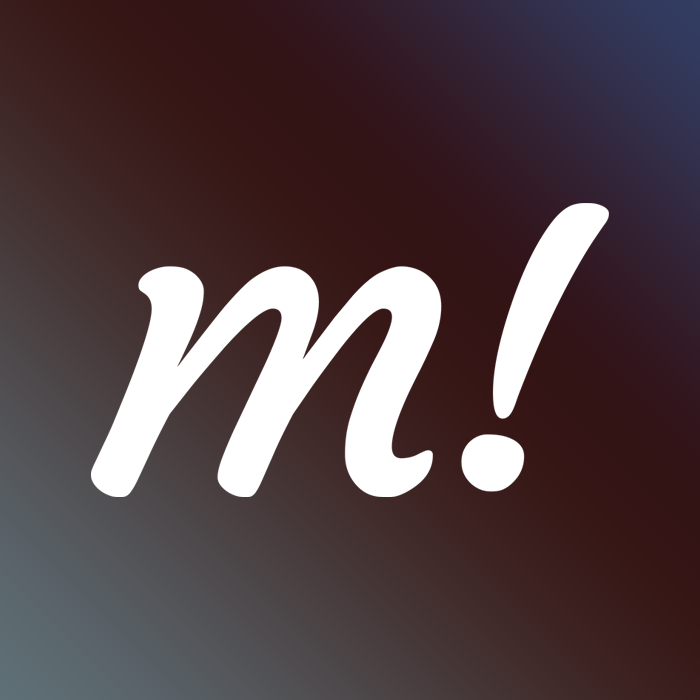
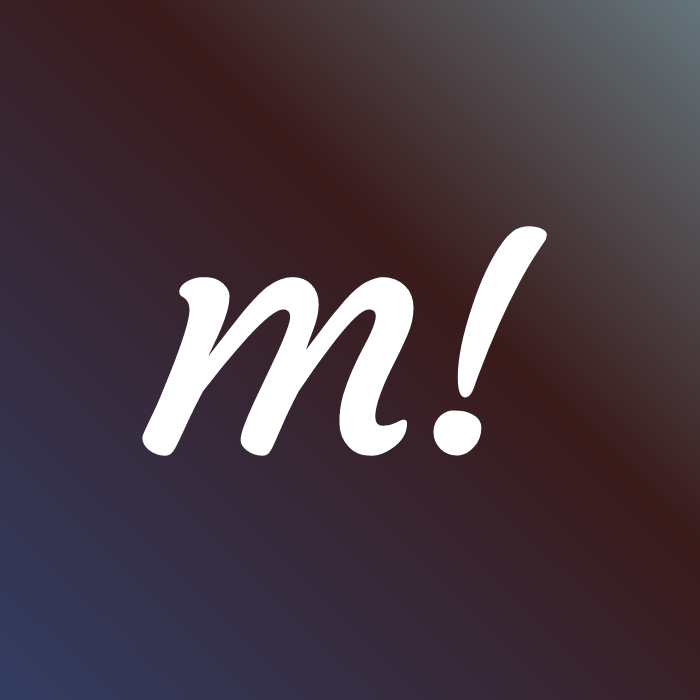
OGP設定

diff --git a/nuxt.config.js b/nuxt.config.js
@@ -13,7 +13,16 @@ export default {
       { charset: 'utf-8' },
       { name: 'viewport', content: 'width=device-width, initial-scale=1' },
       { hid: 'description', name: 'description', content: '相棒たち。' },
+      { hid: 'og:site_name', property: 'og:site_name', content: 'mine' },
+      { hid: 'og:type', property: 'og:type', content: 'website' },
+      { hid: 'og:url', property: 'og:url', content: 'https://mine-u-saku.netlify.app/' },
+      { hid: 'og:title', property: 'og:title', content: 'mine' },
+      { hid: 'og:description', property: 'og:description', content: '相棒たち。' },
+      { hid: 'og:image', property: 'og:image', content: 'https://mine-u-saku.netlify.app/ogp.png' },
+      { name: 'twitter:card', content: 'summary' },
       { name: 'format-detection', content: 'telephone=no' }
+
+
     ],
     link: [
       { rel: 'icon', type: 'image/x-icon', href: '/favicon.ico' },
